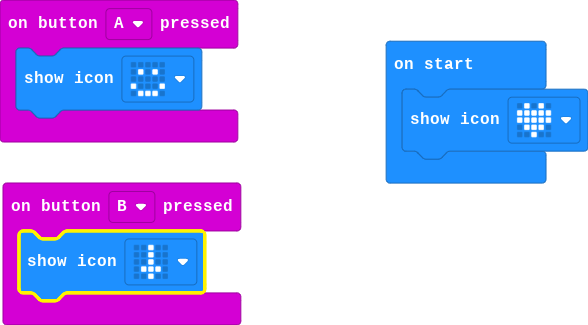
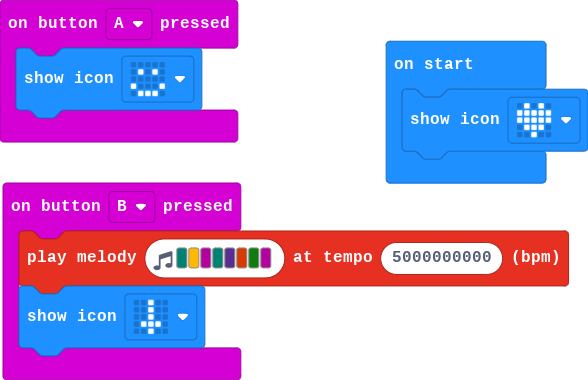
Update main.blocks, main.ts

diff --git a/main.ts b/main.ts
@@ -2,6 +2,7 @@ input.onButtonPressed(Button.A, function () {
     basic.showIcon(IconNames.Happy)
 })
 input.onButtonPressed(Button.B, function () {
+    music.playMelody("F A C F D B G C ", 5000000000)
     basic.showIcon(IconNames.Sword)
 })
 basic.showIcon(IconNames.Heart)
